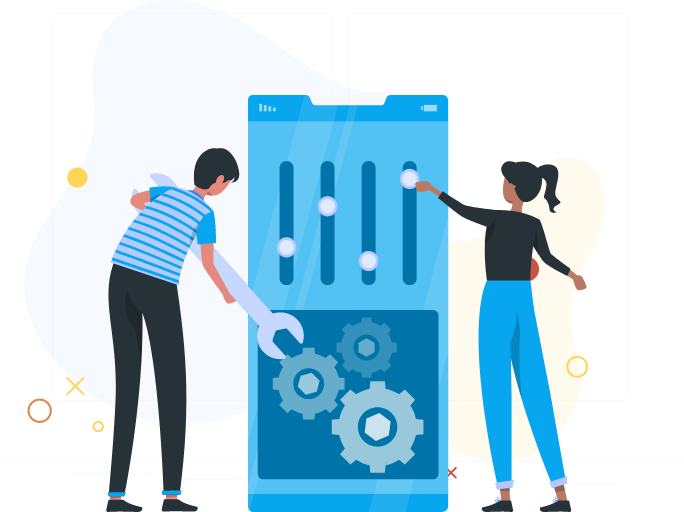
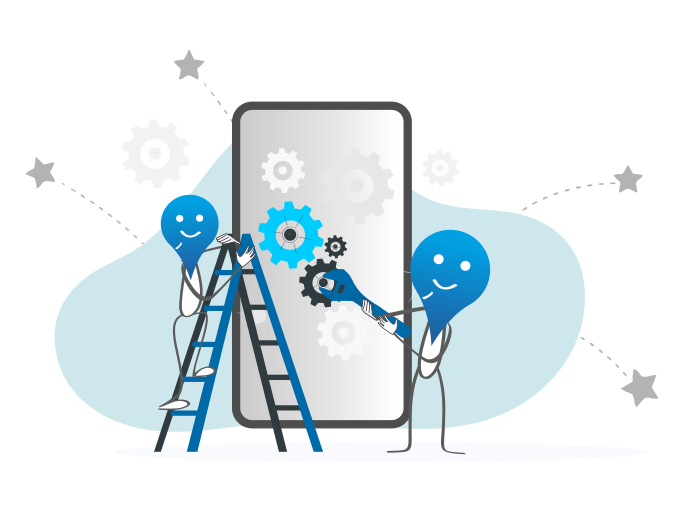
new updated images

diff --git a/src/utils/constants.js b/src/utils/constants.js
@@ -29,15 +29,15 @@ export const LOTTIE_JSON_FILES = {
   loaderJson: require('../assets/json/loader1.json'),
 };
 
-export const FRONTEND_URL = 'https://guruq.in';
-export const IMAGES_URL = 'https://stagingimages.guruq.in';
-export const DASHBOARD_URL = 'https://stagingdashboard.guruq.in';
-export const CLASSES_URL = 'https://stagingclasses.guruq.in';
-// export const API_URL = 'https://stagingapi.guruq.in';
-export const API_URL = 'http://10.0.0.99:5000';
+export const FRONTEND_URL = 'https://new.guruq.in';
+export const IMAGES_URL = 'https://images.guruq.in';
+export const DASHBOARD_URL = 'https://dashboard.guruq.in';
+export const CLASSES_URL = 'https://classes.guruq.in';
+export const API_URL = 'https://api.guruq.in';
+// export const API_URL = 'http://10.0.0.99:5000';
 export const GRAPH_API_URL = `${API_URL}/graphql`;
 
-export const ATTACHMENT_PREVIEW_URL = `${API_URL}/upload/preview?filePath=`;
+export const ATTACHMENT_PREVIEW_URL = `${IMAGES_URL}/upload/preview?filePath=`;
 
 export const STUDENT_FAQ_URL = `${FRONTEND_URL}/student-faq`;
 export const TUTOR_FAQ_URL = `${FRONTEND_URL}/tutor-faq`;

diff --git a/src/app.js b/src/app.js
@@ -9,7 +9,7 @@ import { NavigationContainer } from '@react-navigation/native';
 import { StatusBar } from 'react-native';
 import GlobalFont from 'react-native-global-font';
 import { Root } from 'native-base';
-import {clearAllLocalStorage, getToken, removeToken} from './utils/helpers';
+import { clearAllLocalStorage, getToken, removeToken } from './utils/helpers';
 import {
   appMetaData,
   interestingOfferingData,
@@ -101,10 +101,9 @@ function App() {
   }, []);
 
   const getAppMetaData = async () => {
-    const res = await fetch(`${DASHBOARD_URL}/app-version.json`, {
+    const res = await fetch(`${DASHBOARD_URL}/app-version.json?${new Date().getTime()}`, {
       method: 'GET',
     }).then((response) => response.json());
-    console.log('dddddddddddddd', res);
     const appData = res[Platform.OS.toLowerCase()];
     appMetaData(appData);
     if (appData.isUnderMaintenance) {

diff --git a/src/components/TutorImageComponent/index.js b/src/components/TutorImageComponent/index.js
@@ -1,5 +1,5 @@
 import PropTypes from 'prop-types';
-import React, { useEffect } from 'react';
+import React from 'react';
 import { Text, View } from 'react-native';
 import { RFValue } from 'react-native-responsive-fontsize';
 import { getFileUrl, getNameInitials, RfH } from '../../utils/helpers';
